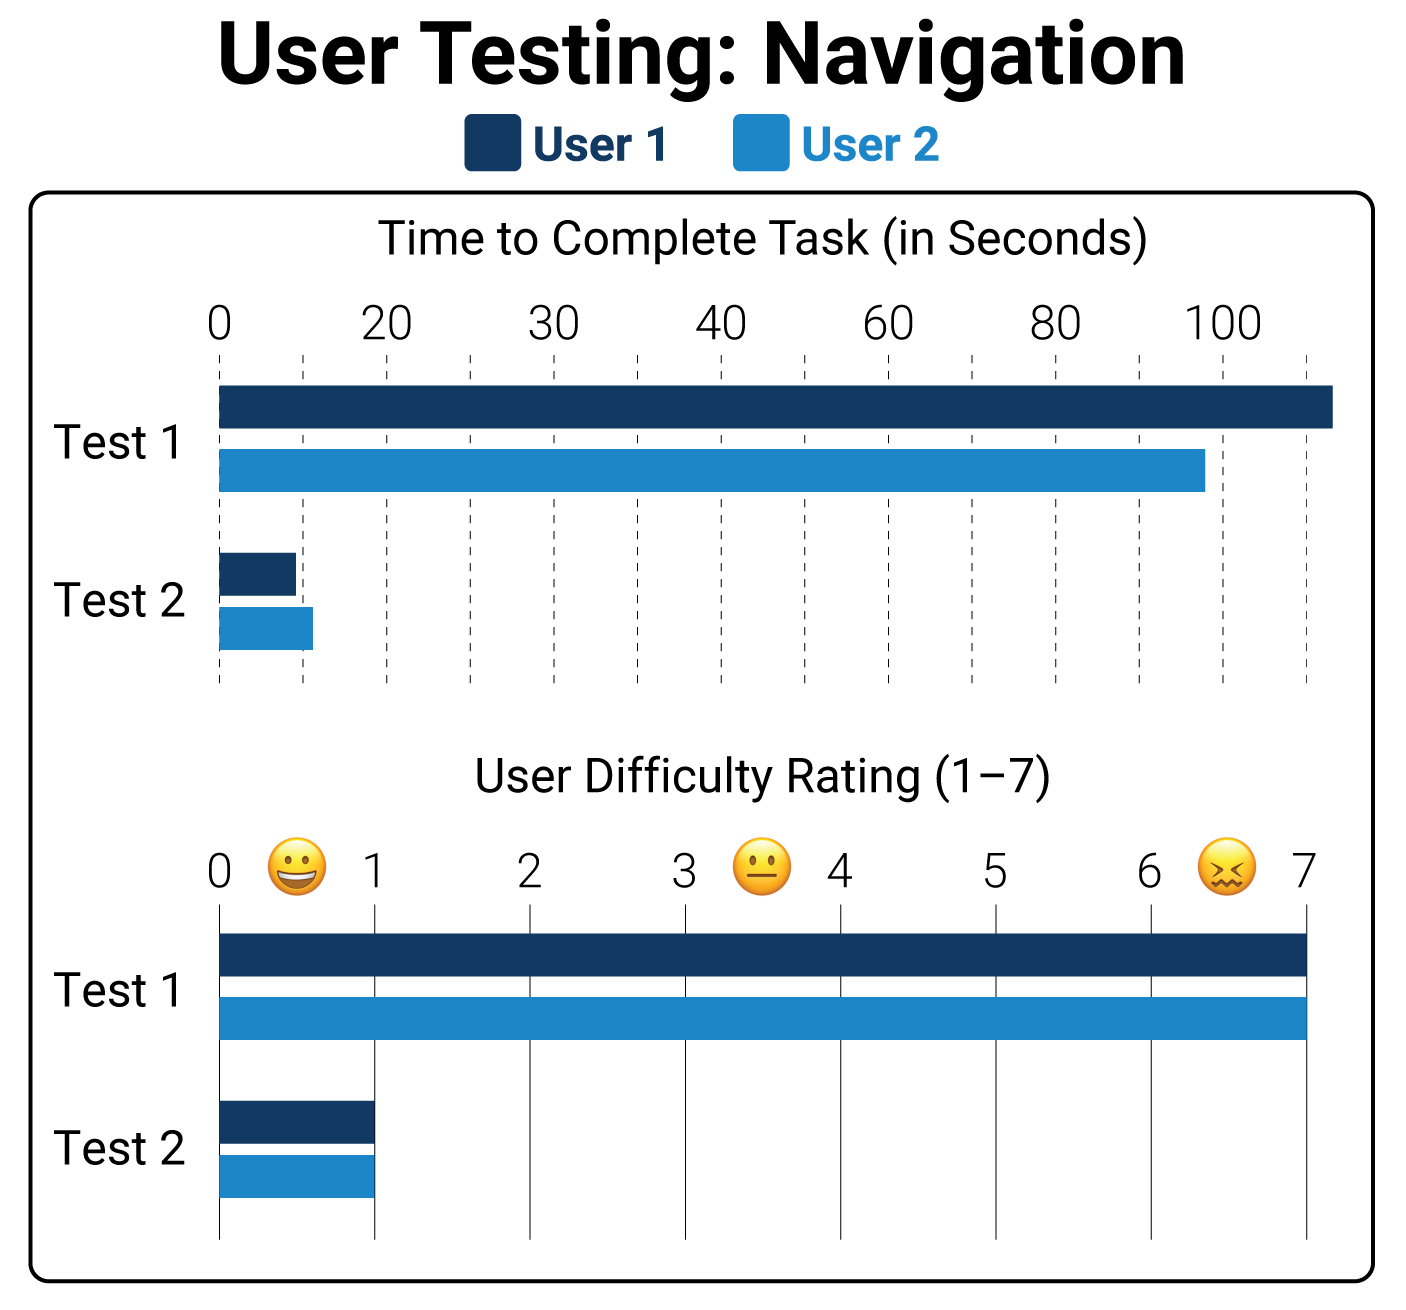
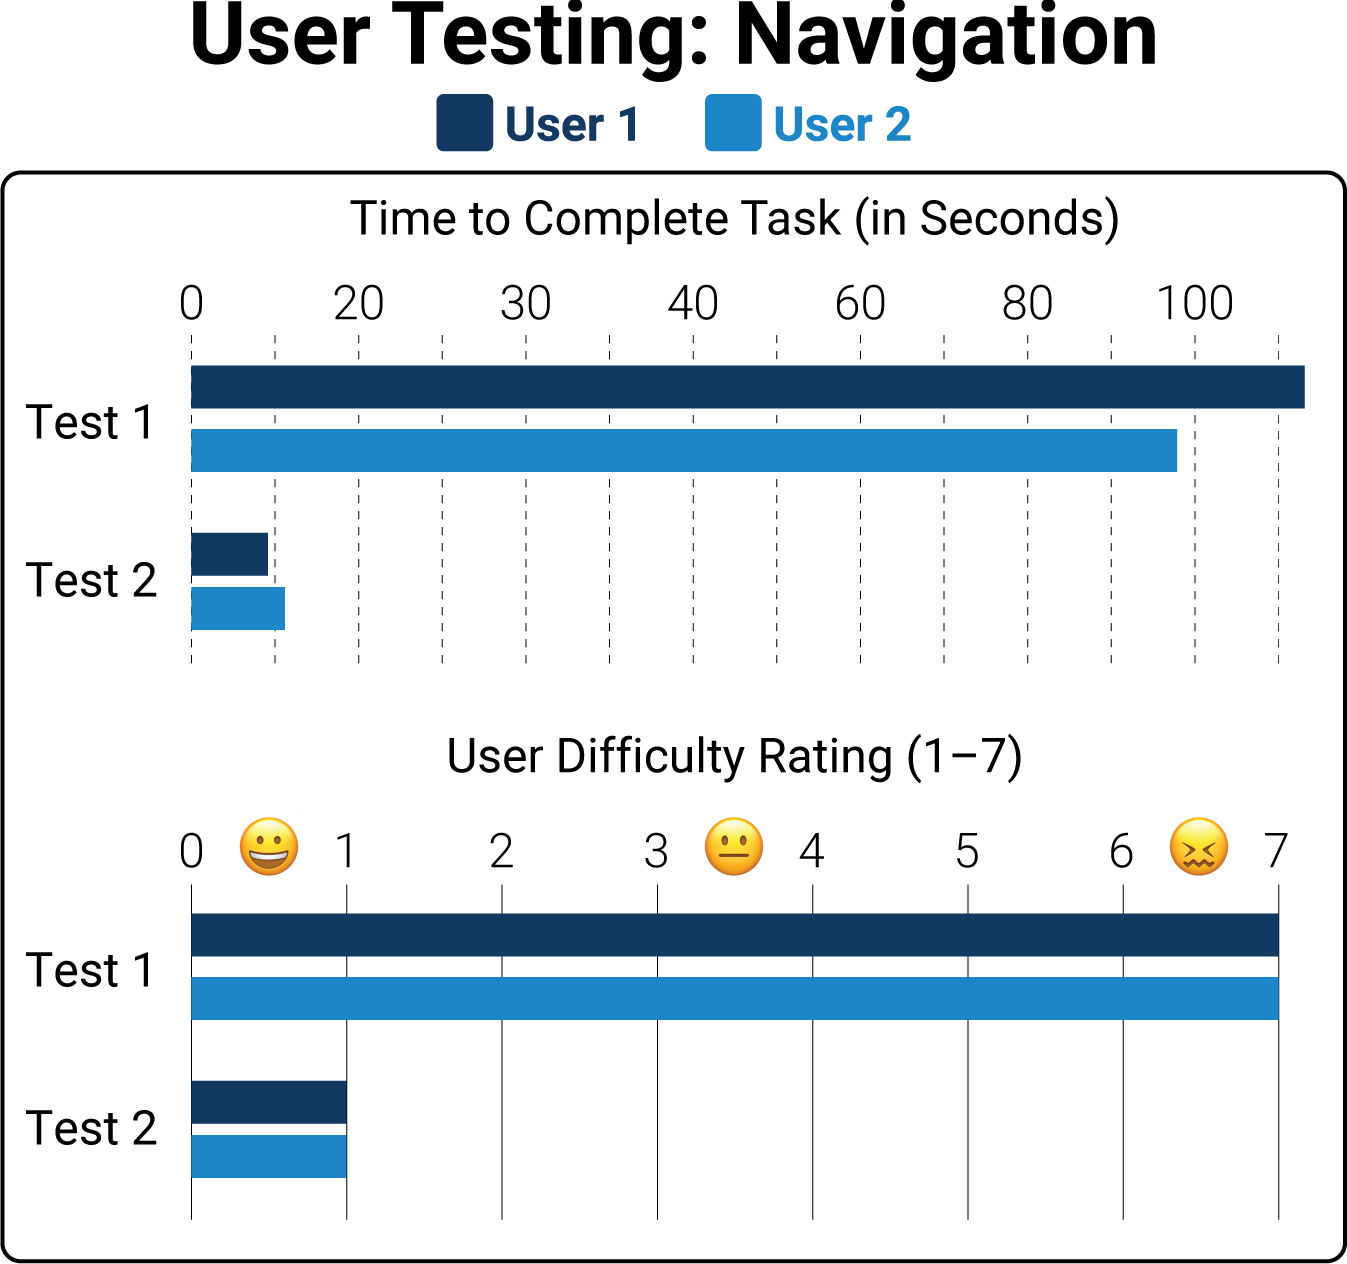
Margin adjustments dol case study

diff --git a/projects_dol.html b/projects_dol.html
@@ -119,7 +119,7 @@
 
       <!-- End Intro -->
 <div class="container-fluid">
-    <div class="row py-5 dolBlueS">
+    <div class="row py-5 mt-6 dolBlueS">
         <div class="col-lg-2 col-md-12"></div>
         <div class="col-lg-8 col-md-12">
             <h1 style="font-weight: 700; letter-spacing: 1px;">Discovery and Analysis</h1>
@@ -131,7 +131,7 @@
 <div class="container-fluid">
     <div class="row py-5">
         <div class="col-lg-2 col-md-12"></div>
-        <div class="col-lg-4 col-md-12">
+        <div class="col-lg-4 col-md-12 pb-4">
             <h2 style="font-weight: 700;">Persona</h2>
             <p class="party2">As an HR manager, Joan is a typical user of the dol.gov website. She frequently visits the site for information, documents, and compliance assistance for the small company she works for. She has a mid to high level of comfort/expertise with the web and technology, but has <strong> the dol.gov site to be difficult to use.</strong></p>
             <a href="images/HW8ProtoPersona@2x.png"><button type="button" class="btn btn-customKI2">See Persona</button></a>
@@ -159,7 +159,7 @@
  
     <div class="row pt-5 pb-0">
         <div class="col-lg-2 col-md-12"></div>
-        <div class="col-lg-4 col-md-12">
+        <div class="col-lg-4 col-md-12 pb-5">
             <h2 style="font-weight: 700;">User Testing</h2>
             <p class="party2">PDF contains in-depth analysis of user testing, including: 5 guerrilla user tests with screenshots, user flows, and insights.</p>
             <a href="https://drive.google.com/file/d/1iCPsT0jih6_NyL96sBD6eSo_bK3CAjDa/view?usp=sharing"><button type="button" class="btn btn-customKI2">User Testing PDF</button></a>
@@ -206,15 +206,16 @@
 
     <div class="row py-5">
         <div class="col-lg-2 col-md-12"></div>
-        <div class="col-lg-4 col-md-12">
+        <div class="col-lg-4 col-md-12 pb-4">
             <h2 style="font-weight: 700;">Navigation Usability Tests</h2>
             <p class="party2">Two tasks from the “Top 20” list of most-visited pages were tested, to see how they are represented in the navigation. In the first test to find “Occupational Outlook Handbook”, which is the most-requested topic, <strong> users could not find this without using search</strong> — unless they happened to find the Top 20 link. The second test to find “Family and Medical Leave Act” only took an average of 10 seconds, with links found in Topics mega menu, as well as in the Quick Links.</p>
             <p class="party2">While only testing two potential user paths, these tests revealed the difference in user experience based on how the navigation is designed. Someone on the design team for the dol.gov site has done the research to determine the most visited links on the site, but <strong>the current navigation does not guide the user to those links without a lot of digging.</strong> The redesign will address these and other issues.</p>
             <p class="party2">These issues are magnified on the mobile site, as the <strong>scrolling becomes unwieldy</strong>, and lack of content chunking into smaller bits makes navigation very challenging.</p>
         </div>
         <div class="col-lg-4 col-md-12">
-            <img src="images/dolNavUserTest.png" class="img-responsive w-100">
-        <p class="mb-0" style="text-align: center;"><a href="https://drive.google.com/file/d/1y_B-UVYfQG4PXoOhXEx5G7QjtxXKIqZe/view?usp=sharing"><button type="button" class="btn btn-customKI2">User Test Recording 1</button></a> &nbsp; <a href="https://drive.google.com/file/d/1ue_3gIGO-Jw-3fIas20ySMkgWenmV85G/view?usp=sharing"><button type="button" class="btn btn-customKI2">User Test Recording 2</button></a></p>
+        <img src="images/dolNavUserTest.png" class="img-responsive w-100 mb-3">
+        <a href="https://drive.google.com/file/d/1y_B-UVYfQG4PXoOhXEx5G7QjtxXKIqZe/view?usp=sharing"><button type="button" class="btn btn-customKI2 mb-2">User Test Recording 1</button></a>
+        <a href="https://drive.google.com/file/d/1ue_3gIGO-Jw-3fIas20ySMkgWenmV85G/view?usp=sharing"><button type="button" class="btn btn-customKI2 mb-2">User Test Recording 2</button></a>
         </div>
         <div class="col-lg-2 col-md-12"></div>
     </div> <!-- Row Close -->
@@ -280,8 +281,8 @@
 
     <div class="row py-5">
         <div class="col-lg-2 col-md-12"></div>
-        <div class="col-lg-4 col-md-12">
-            <h2 style="font-weight: 700;">Navigation UI — Main</h2>
+        <div class="col-lg-4 col-md-12 pb-5">
+            <h2 style="font-weight: 700;">Navigation UI: Main</h2>
             <p class="party2">The site navigation was reorganized based on the content chunking from the card sorting exercise.</p>
             <p class="party2">Main goals:
                 <ul style="margin-left: 1.2em;" class="party2">
@@ -292,7 +293,7 @@
                     <li>Use cards for news features</li></ul></p>
         </div>
         <div class="col-lg-4 col-md-12">
-            <h2 style="font-weight: 700;">Navigation UI — Secondary</h2>
+            <h2 style="font-weight: 700;">Navigation UI: Secondary</h2>
             <p class="party2">Navigation on secondary pages was reorganized similarly, with user groups as top-level differentiator.</p>
             <p class="party2">Main goals:
                 <ul style="margin-left: 1.2em;" class="party2">
@@ -334,6 +335,8 @@
             <li>Search</li>
             </ul>
             <a href="https://xd.adobe.com/view/69d1134e-19ae-46d9-b1fc-2cf5370c0715-3c82/"><button type="button" class="btn btn-customKI2">Adobe XD Clickable Desktop Wireframe</button></a>
+            <button type="button" class="btn btn-customKI2 my-4" data-toggle="collapse" data-target="#desktopWireframe">Wireframe Screenshot</button>
+        <div id="desktopWireframe" class="collapse"><a href="images/dolWireframeDesktop2.png" target="blank"> <img src="images/dolWireframeDesktop2.png" class="img-responsive w-100"></a></div>
     </div>
     <div class="col-lg-4 col-md-12">
         <h2 style="font-weight: 700;">Mobile Clickable Wireframe
@@ -346,7 +349,8 @@
         <li>Footer dropdown bars</li>
         </ul>
         <a href="https://xd.adobe.com/view/b40e6680-8b0b-4782-8caa-305057801b8f-e15d/"><button type="button" class="btn btn-customKI2">Adobe XD Clickable Mobile Wireframe</button></a>
-
+        <button type="button" class="btn btn-customKI2 my-4" data-toggle="collapse" data-target="#mobileWireframe">Wireframe Screenshot</button>
+        <div id="mobileWireframe" class="collapse"><a href="images/dolWireframesMobile1.png" target="blank"> <img src="images/dolWireframesMobile1.png" class="img-responsive w-100"></a>
 
     </div>
     <div class="col-lg-2 col-md-12"></div>
@@ -354,7 +358,7 @@
 
 
 
-<div class="row pb-5 pt-1">
+<!--<div class="row pb-5 pt-1">
     <div class="col-lg-2 col-md-12"></div>
     <div class="col-lg-4 col-md-12">
         <button type="button" class="btn btn-customKI2" data-toggle="collapse" data-target="#desktopWireframe">See Wireframe <i class="fa fa-chevron-down"></i></button>
@@ -368,7 +372,7 @@
     </div>
 </div>
     <div class="col-lg-2 col-md-12"></div>
-</div> <!-- Row Close -->
+</div>--> <!-- Row Close -->
 
 <div class="row py-5" style="background-color: #ececec;">
     <div class="col-lg-2 col-md-12"></div>
@@ -380,7 +384,7 @@
             <li>Users were able to locate/use the main features: search, primary navigation, cards, footer</li>
             <li>User feedback indicated there is a lot of text to scan in order to figure out the various sections.</li>
             </ul>
-            <a href="https://drive.google.com/file/d/1vwrjL3cx4ZzLLF5rkYayewapgc2HT8MV/view?usp=sharing"><button type="button" class="btn btn-customKI2">5-Second Test Video</button></a>
+            <a href="https://drive.google.com/file/d/1vwrjL3cx4ZzLLF5rkYayewapgc2HT8MV/view?usp=sharing"><button type="button" class="btn btn-customKI2 mb-4">5-Second Test Video</button></a>
     </div>
     <div class="col-lg-4 col-md-12">
         <h2 style="font-weight: 700;">5-Second Tests: Iterations</h2>
@@ -440,13 +444,13 @@
     <div class="col-lg-2 col-md-12"></div>
 </div> <!-- Row Close -->
 <div class="row pb-5">
-    <div class="col-lg-4 col-md-12">
+    <div class="col-lg-4 col-md-12 mb-4">
         <img src="images/Web 1920 – 6@2x.png"  class="img-responsive w-100" style="border: solid 1px black; max-width:100%">
     </div>
-    <div class="col-lg-4 col-md-12">
+    <div class="col-lg-4 col-md-12 mb-4">
         <img src="images/Web 1920 – 4@2x.png"  class="img-responsive w-100" style="border: solid 1px black; max-width:100%">
     </div>
-    <div class="col-lg-4 col-md-12">
+    <div class="col-lg-4 col-md-12 mb-5">
         <img src="images/Web 1920 – 5@2x.png"  class="img-responsive w-100" style="border: solid 1px black; max-width:100%">
     </div>
 </div> <!-- Row Close -->
@@ -464,17 +468,17 @@
 <div class="row pb-5">
     <div class="col-lg-2 col-md-12">
     </div>
-    <div class="col-lg-2 col-md-12">
-        <img src="images/MobileHome@2x.png"  class="img-responsive w-100" style="border: solid 1px black; max-width:100%">
+    <div class="col-lg-2 col-md-12 mb-4">
+        <img src="images/MobileHome@2x.png"  class="img-responsive" style="border: solid 1px black; max-width:100%">
     </div>
-    <div class="col-lg-2 col-md-12">
-        <img src="images/MobileHomeSliderOpen@2x.png"  class="img-responsive w-100" style="border: solid 1px black; max-width:100%">
+    <div class="col-lg-2 col-md-12 mb-4">
+        <img src="images/MobileHomeSliderOpen@2x.png"  class="img-responsive" style="border: solid 1px black; max-width:100%">
     </div>
-    <div class="col-lg-2 col-md-12">
-        <img src="images/MobileWorkers@2x.png"  class="img-responsive w-100" style="border: solid 1px black; max-width:100%">
+    <div class="col-lg-2 col-md-12 mb-4">
+        <img src="images/MobileWorkers@2x.png"  class="img-responsive" style="border: solid 1px black; max-width:100%">
     </div>
-    <div class="col-lg-2 col-md-12">
-        <img src="images/MobileSearch@2x.png"  class="img-responsive w-100" style="border: solid 1px black; max-width:100%">
+    <div class="col-lg-2 col-md-12 mb-4">
+        <img src="images/MobileSearch@2x.png"  class="img-responsive" style="border: solid 1px black; max-width:100%">
     </div>
     <div class="col-lg-2 col-md-12">
     </div>

diff --git a/css/index.css b/css/index.css
@@ -8,7 +8,6 @@ font-family: 'Roboto', sans-serif
 }
 
 
-
 html {
   scroll-behavior: smooth;
   font-size: 16px;
